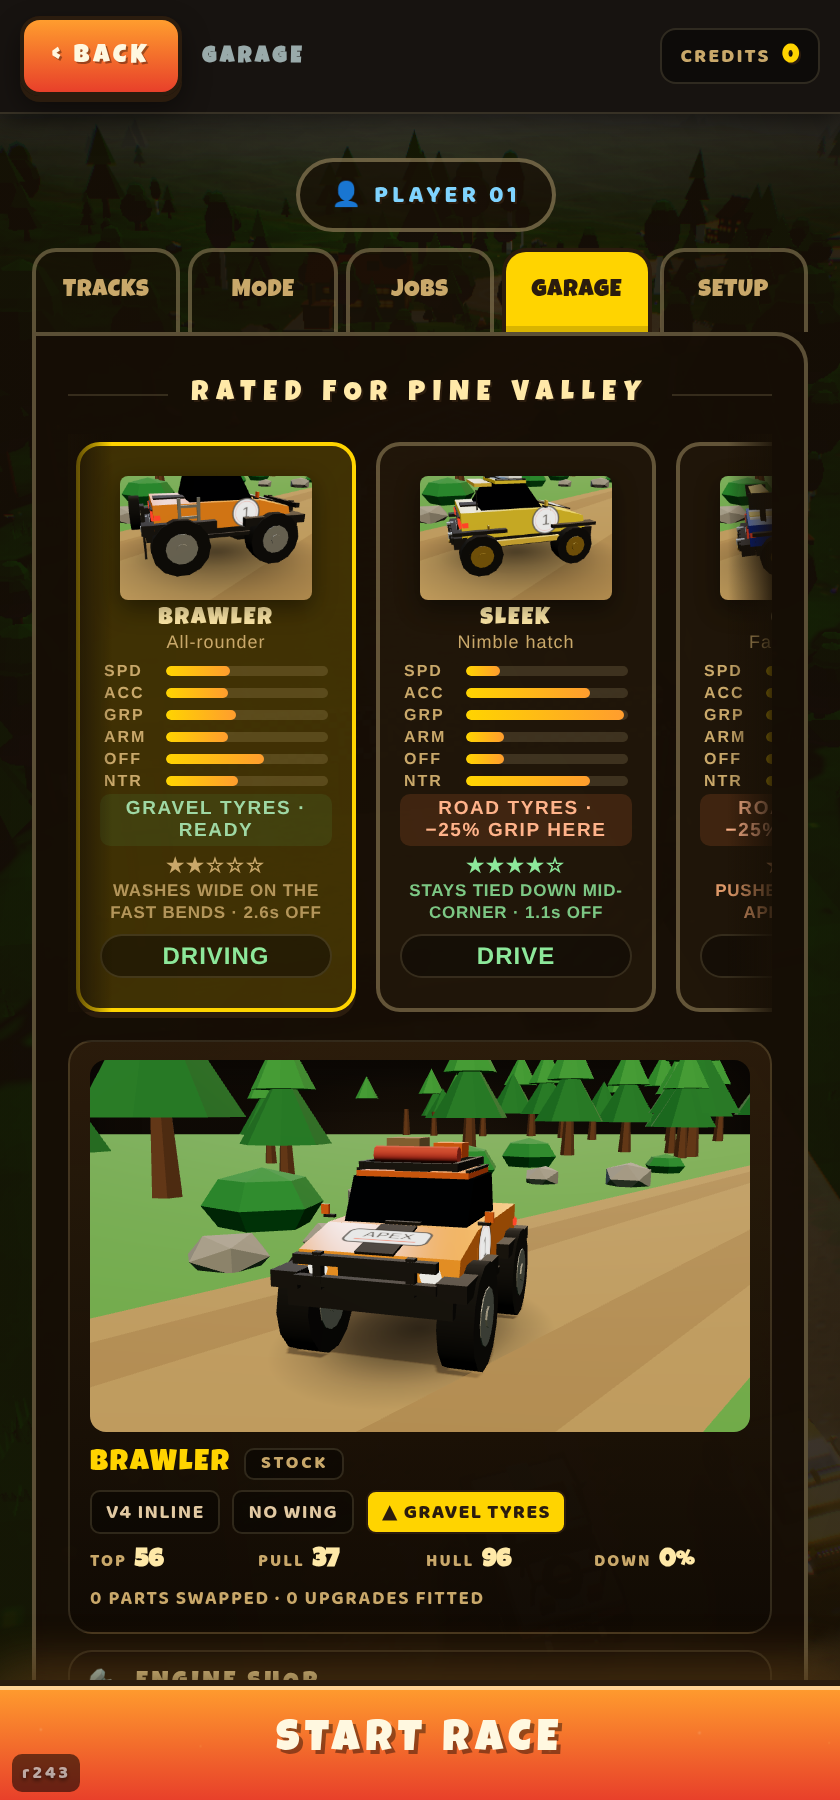
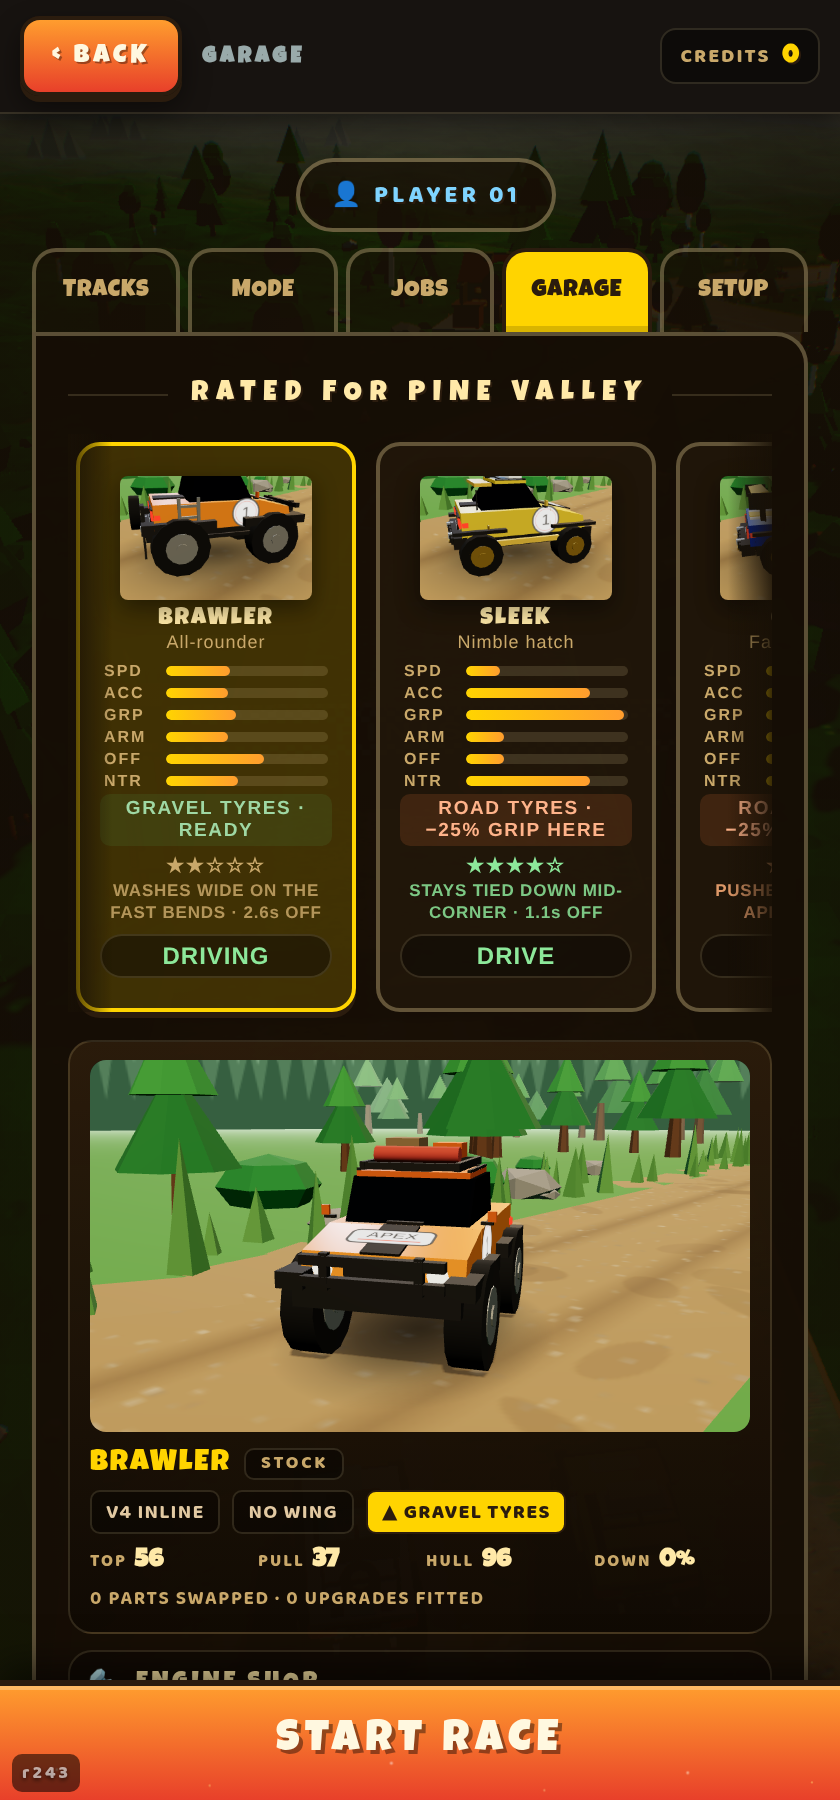
Iterate the garage forest: painted trail, fog, and a far plane that fits
The trail is painted now — two wheel ruts, gravel speckle, damp
patches — with a broken edge, because a razor-straight line between
dirt and grass is a line no trail has. The scene is fogged, scaled to
the diorama at 46-185: every world in this game is fogged, and without
it a 160 u wood is a flat wall of identical cones.

dioparts.mjs measures what each welded piece is worth. It caught 150
grass tufts costing 1800 triangles — 22% of the diorama's geometry —
for 1.4% of the frame. Ninety, taller, held to the trail edge: 1080
triangles for 3.6%.

The round's real finding is in HANDOVER.md. A white wedge in the bay's
corner measured as 7.4% of it rendering transparent, so the backdrop
was rebuilt as a wrap-around cylinder (9.6% — worse) and then as a sky
dome with a separate treeline ring (9.6% — identical to the tenth). A
number that will not move under two different fixes is not a tuning
problem: the stage camera's far plane is 120 and the backdrop sits at
150 to 210, so neither version was ever drawn. Far 600 takes it to 0.

Gates: boot 4/4 clean, test-cars passes.

Claude-Session: https://claude.ai/code/session_01URrqS2kzo9eCa3Prp4kpvs

diff --git a/src/main.js b/src/main.js
@@ -4602,12 +4602,23 @@ class Game {
     r.shadowMap.enabled = true;
     r.shadowMap.type = THREE.PCFSoftShadowMap;
     const scene = new THREE.Scene();
-    const cam = new THREE.PerspectiveCamera(32, 1.6, 0.1, 120);
+    // FAR 600, NOT 120. The diorama's sky dome is at 210 u and its far treeline
+    // at 150, and at a far plane of 120 both were clipped away entirely — which
+    // is what 7-9% of the bay rendering TRANSPARENT actually was, and why
+    // replacing a flat backdrop with a cylinder and then a dome moved the
+    // number not at all. Two backdrops were redesigned before the camera was
+    // asked whether it could see either of them.
+    const cam = new THREE.PerspectiveCamera(32, 1.6, 0.1, 600);
 
     // ---- THE TRAIL IN THE PINES. See `_diorama`: the bay is a place in the
     // game's own world now, not a painted room, and the repaint-for-contrast,
     // the moving wall band and the coloured back lamps went with the room.
     scene.add(this._diorama());
+    // DEPTH COMES FROM AIR. Every world in this game is fogged (`THEMES.forest`
+    // runs 320 to 1500); without it a 160 u wood is a flat wall of identical
+    // cones and the near trees read the same as the far. Scaled to the
+    // diorama and starting well beyond the car, which sits 10 u out.
+    scene.fog = new THREE.Fog(0xd2e2cc, 46, 185);
 
     // Forest light, straight off `THEMES.forest`: a warm sun a little over
     // the shoulder, a cool sky bounce, green off the ground.
@@ -5033,35 +5044,58 @@ class Game {
     let seed = 20260823;
     const rnd = () => ((seed = (seed * 1103515245 + 12345) & 0x7fffffff) / 0x7fffffff);
 
-    // --- sky and the far treeline, painted into one unlit plane ------------
-    // The distant wood is drawn rather than built: at 150 u back it is a
+    // --- the sky, and the far treeline ------------------------------------
+    //
+    // A DOME, NOT A PANEL AND NOT A BAND. Measured twice: a flat plane behind
+    // the origin left 7.4% of the bay rendering TRANSPARENT — a hole in the
+    // sky with the dark panel showing through — because the camera looks in
+    // from +x +z and at 150 u back its view axis is a hundred metres off to
+    // one side. An open-topped cylinder was worse at 9.6%, since the frame
+    // reaches over its rim. A sphere seen from inside has no edge to miss.
+    const skyC = document.createElement('canvas');
+    skyC.width = 8; skyC.height = 256;
+    const s2 = skyC.getContext('2d');
+    const sky = s2.createLinearGradient(0, 0, 0, 256);
+    sky.addColorStop(0, '#2f7ac8');
+    sky.addColorStop(0.42, '#549ad8');
+    sky.addColorStop(0.74, '#9cc4de');
+    sky.addColorStop(1, '#cfe0cc');
+    s2.fillStyle = sky; s2.fillRect(0, 0, 8, 256);
+    const skyTex = new THREE.CanvasTexture(skyC);
+    skyTex.colorSpace = THREE.SRGBColorSpace;
+    const dome = new THREE.Mesh(new THREE.SphereGeometry(210, 24, 16),
+      new THREE.MeshBasicMaterial({ map: skyTex, side: THREE.BackSide,
+        toneMapped: false, depthWrite: false, fog: false }));
+    dome.renderOrder = -2;
+    g.add(dome);
+
+    // The far wood is DRAWN, on a ring inside the dome: at 150 u back it is a
     // silhouette and nothing more, and a hundred more cones for it would cost
     // draw calls on the phone this menu is for.
     const cv = document.createElement('canvas');
-    cv.width = 512; cv.height = 256;
+    cv.width = 1024; cv.height = 128;
     const x = cv.getContext('2d');
-    const sky = x.createLinearGradient(0, 0, 0, 190);
-    sky.addColorStop(0, '#3f8de0');
-    sky.addColorStop(0.62, '#9fc8e8');
-    sky.addColorStop(1, '#e8f0d8');
-    x.fillStyle = sky; x.fillRect(0, 0, 512, 200);
-    x.fillStyle = '#e8f0d8'; x.fillRect(0, 190, 512, 66);
-    for (const [band, col, base, hi] of [[0, '#6f9a72', 196, 22], [1, '#4a7a52', 206, 30],
-      [2, '#315c3c', 218, 38]]) {
+    x.clearRect(0, 0, 1024, 128);
+    for (const [band, col, base, hi] of [[0, '#7ea882', 74, 30], [1, '#547f5a', 92, 40],
+      [2, '#365f40', 112, 50]]) {
       x.fillStyle = col;
       x.beginPath();
-      x.moveTo(0, 256);
-      for (let px = -10; px < 522; px += 9 + band * 3) {
+      x.moveTo(0, 128);
+      for (let px = -10; px < 1034; px += 9 + band * 3) {
         const h = base - hi * (0.45 + rnd() * 0.55);
         x.lineTo(px, h); x.lineTo(px + (5 + band * 2), base);
       }
-      x.lineTo(522, 256); x.closePath(); x.fill();
+      x.lineTo(1034, 128); x.closePath(); x.fill();
     }
     const backTex = new THREE.CanvasTexture(cv);
     backTex.colorSpace = THREE.SRGBColorSpace;
-    const back = new THREE.Mesh(new THREE.PlaneGeometry(520, 210),
-      new THREE.MeshBasicMaterial({ map: backTex, toneMapped: false, depthWrite: false }));
-    back.position.set(0, 70, -150);
+    backTex.wrapS = THREE.RepeatWrapping;
+    backTex.repeat.set(2.5, 1);
+    const back = new THREE.Mesh(
+      new THREE.CylinderGeometry(150, 150, 52, 48, 1, true),
+      new THREE.MeshBasicMaterial({ map: backTex, side: THREE.BackSide,
+        transparent: true, toneMapped: false, depthWrite: false, fog: false }));
+    back.position.set(0, 26, 0);
     back.renderOrder = -1;
     g.add(back);
 
@@ -5072,19 +5106,56 @@ class Game {
     ground.position.y = -0.02;
     ground.receiveShadow = true;
     g.add(ground);
+    // The trail is PAINTED, not a flat fill: two wheel ruts, gravel speckle and
+    // a few damp patches, on a texture that repeats down its length. A plain
+    // tan plane with a razor edge was the one thing in this picture that said
+    // "placed in a hurry".
+    const tc = document.createElement('canvas');
+    tc.width = 128; tc.height = 256;
+    const t2 = tc.getContext('2d');
+    t2.fillStyle = '#9c7a48'; t2.fillRect(0, 0, 128, 256);
+    for (const [rx, rw] of [[30, 20], [78, 20]]) {
+      const rg = t2.createLinearGradient(rx, 0, rx + rw, 0);
+      rg.addColorStop(0, 'rgba(120,92,52,0)');
+      rg.addColorStop(0.5, 'rgba(112,86,50,0.55)');
+      rg.addColorStop(1, 'rgba(120,92,52,0)');
+      t2.fillStyle = rg; t2.fillRect(rx, 0, rw, 256);
+    }
+    for (let i = 0; i < 420; i++) {                  // gravel
+      const v = 130 + (rnd() * 70 | 0);
+      t2.fillStyle = `rgba(${v},${v - 18},${v - 46},${0.2 + rnd() * 0.35})`;
+      t2.fillRect(rnd() * 128, rnd() * 256, 1 + rnd() * 2, 1 + rnd() * 2);
+    }
+    for (let i = 0; i < 14; i++) {                   // damp patches
+      t2.fillStyle = `rgba(96,74,44,${0.10 + rnd() * 0.14})`;
+      t2.beginPath();
+      t2.ellipse(rnd() * 128, rnd() * 256, 6 + rnd() * 16, 4 + rnd() * 10, rnd() * 3, 0, 6.3);
+      t2.fill();
+    }
+    const trailTex = new THREE.CanvasTexture(tc);
+    trailTex.wrapS = trailTex.wrapT = THREE.RepeatWrapping;
+    trailTex.repeat.set(1, 14);
+    trailTex.anisotropy = 4;
+    trailTex.colorSpace = THREE.SRGBColorSpace;
     const trail = new THREE.Mesh(new THREE.PlaneGeometry(10.5, 300),
-      new THREE.MeshStandardMaterial({ color: F.dirt, roughness: 1 }));
+      new THREE.MeshStandardMaterial({ map: trailTex, roughness: 1 }));
     trail.rotation.x = -Math.PI / 2;
     trail.position.set(0, 0.005, -40);
     trail.receiveShadow = true;
     g.add(trail);
-    for (const rx of [-2.9, 2.9]) {
-      const rut = new THREE.Mesh(new THREE.PlaneGeometry(1.9, 300),
-        new THREE.MeshStandardMaterial({ color: F.rut, roughness: 1,
-          transparent: true, opacity: 0.55 }));
-      rut.rotation.x = -Math.PI / 2;
-      rut.position.set(rx, 0.012, -40);
-      g.add(rut);
+    // ...and the edge is BROKEN. A straight boundary between dirt and grass is
+    // a line no trail has: these are worn patches straddling it.
+    const scuffs = [];
+    for (let i = 0; i < 46; i++) {
+      const side = i % 2 ? 1 : -1;
+      const w = 1.4 + rnd() * 3.4, d = 1.6 + rnd() * 4;
+      const sx = side * (5.25 + (rnd() - 0.35) * 2.2);
+      const sz = -70 + rnd() * 96;
+      const q = new THREE.PlaneGeometry(w, d);
+      q.rotateX(-Math.PI / 2);
+      q.rotateY(rnd() * 3);
+      q.translate(sx, 0.008, sz);
+      scuffs.push(q);
     }
 
     // --- the pines ---------------------------------------------------------
@@ -5151,8 +5222,24 @@ class Game {
       out.computeVertexNormals();
       return out;
     };
+    // Tufts LINING THE TRAIL, not sprinkled over the field. The first cut put
+    // 150 small ones across nine metres of verge: 1800 triangles — 22% of the
+    // whole diorama's geometry — for 1.4% of the frame, because at this camera
+    // distance a 0.75 u blade is two pixels. Ninety, half again as tall, and
+    // held inside four metres of the edge where the eye is already looking.
+    const tufts = [];
+    const tuftGeo = new THREE.ConeGeometry(0.3, 1.15, 4);
+    tuftGeo.translate(0, 0.57, 0);
+    for (let i = 0; i < 90; i++) {
+      const side = i % 2 ? 1 : -1;
+      const gx = side * (5.5 + rnd() * 4.2);
+      const gz = -58 + rnd() * 82;
+      const sc = 0.9 + rnd() * 1.0;
+      put(tufts, tuftGeo, sc, sc * (0.85 + rnd() * 0.8), sc, gx, 0, gz, rnd() * 3);
+    }
     for (const [geos, col, flat] of [[trunks, F.trunk, false], [lows, F.low, true],
-      [tops, F.top, true], [rocks, F.rock, true], [bushes, F.bush, true]]) {
+      [tops, F.top, true], [rocks, F.rock, true], [bushes, F.bush, true],
+      [tufts, 0x5e8f3e, true], [scuffs, F.dirt, false]]) {
       const m = new THREE.Mesh(weld(geos),
         new THREE.MeshStandardMaterial({ color: col, roughness: 0.95, flatShading: flat }));
       m.receiveShadow = true;
@@ -5261,7 +5348,7 @@ class Game {
    */
   _shoot(mesh, w, h, { dist = 8.7, look = 0.55, ground = false } = {}) {
     const st = this._studio(w, h);
-    const cam = new THREE.PerspectiveCamera(30, w / h, 0.1, 120);
+    const cam = new THREE.PerspectiveCamera(30, w / h, 0.1, 600);  // see `_stage`
     cam.position.set(5.2, 3.2, 6.2).normalize().multiplyScalar(dist);
     cam.lookAt(0, look, 0);
     st.scene.add(mesh);

diff --git a/HANDOVER.md b/HANDOVER.md
@@ -2898,3 +2898,42 @@ A photograph on a trail wants the trail in it.
 
 Part icons keep the plain sweep. A gearbox held up to the light does not stand
 on a rally trail, and a wood behind a 40 px chip is noise.
+
+## r262 — THE FAR PLANE, AND TWO BACKDROPS REDESIGNED FOR NOTHING
+Iterating on r261's forest. The trail got a painted texture — two wheel ruts,
+gravel speckle, damp patches — and a broken edge, because a razor-straight line
+between dirt and grass is a line no trail has. The scene got FOG: every world
+in this game is fogged (`THEMES.forest` runs 320 to 1500) and without it a
+160 u wood is a flat wall of identical cones. Scaled to 46-185, starting well
+beyond the car at 10 u.
+
+### THE GRASS TUFTS, MEASURED
+`dioparts.mjs` hides each welded piece and counts the pixels that change, with
+its triangle count beside it. The first cut sprinkled 150 tufts across nine
+metres of verge: 1800 triangles — 22% of the whole diorama's geometry — for
+1.4% of the frame, because at this camera distance a 0.75 u blade is two
+pixels. Ninety, half again as tall, held within four metres of the trail edge:
+1080 triangles for 3.6%. Forty percent less geometry, two and a half times the
+effect.
+
+### AND THE ONE THAT WASTED THE ROUND
+A white wedge sat in the top corner of the bay. `bayblack.mjs` named it: 7.4%
+of the bay rendering TRANSPARENT — a hole with the dark panel showing through.
+The obvious reading is that the backdrop is too small, so:
+
+  1. the flat plane became a wrap-around CYLINDER, since the camera looks in
+     from +x +z and at 150 u back its view axis is a hundred metres off to one
+     side, so a plane centred on the origin wastes half its width. Measured
+     after: **9.6%. Worse.**
+  2. the cylinder became a sky DOME plus a separate treeline ring, because an
+     open-topped band still lets the frame reach over its rim. Measured after:
+     **9.6%. Identical, to the tenth.**
+
+A number that does not move AT ALL under two different fixes is not a tuning
+problem. The stage camera is `PerspectiveCamera(32, 1.6, 0.1, 120)` — FAR 120 —
+and the dome is at 210 with the treeline at 150. Both were clipped away
+entirely; the "far trees" visible all along were the built mask row at z -78.
+Far 600 on both stage and studio cameras: transparent 9.6% → **0**.
+
+ASK WHETHER THE CAMERA CAN SEE A THING BEFORE REDESIGNING IT. Two backdrops
+were rebuilt to fix a hole that neither of them was ever being drawn into.

diff --git a/tools-scratch/README.md b/tools-scratch/README.md
@@ -175,6 +175,11 @@ real time to get right and the next session should not rebuild them.
 - `bayboth.mjs` the bay for a dark, a light and a mid car as three files. The
                 room is repainted from the car, so one screenshot proves
                 nothing.
+- `dioparts.mjs` what each welded piece of the garage diorama is worth: hide
+                it, count the pixels that change, and print its triangle count
+                beside them. It caught 150 grass tufts costing 1800 triangles —
+                22% of the diorama's geometry — for 1.4% of the frame, because
+                at that camera distance a 0.75 u blade is two pixels.
 - `bayblack.mjs` how much of the bay canvas is black, in a 4x4 grid so the
                 answer says WHICH part is unlit, with the scene graph beside
                 it. It is what showed the bay was already fine and sent the
@@ -243,6 +248,11 @@ real time to get right and the next session should not rebuild them.
 - `srv.mjs`     plain static server (`node srv.mjs 8920`).
 - `keep.sh`     keeps a server alive across tool-call timeouts:
                 `setsid ./keep.sh srv.mjs 8920 &`
+
+`bayblack.mjs`'s `transparentPct` is the gate for the garage backdrop: a
+diorama whose sky sits beyond the stage camera's FAR PLANE renders as a hole
+with the panel showing through, and it looks exactly like a backdrop that is
+merely too small.
 
 (`baycontrast.mjs` and `baylamps.mjs` are gone: they measured the painted
 room and its coloured lamps, and r261 replaced both with a forest.)
